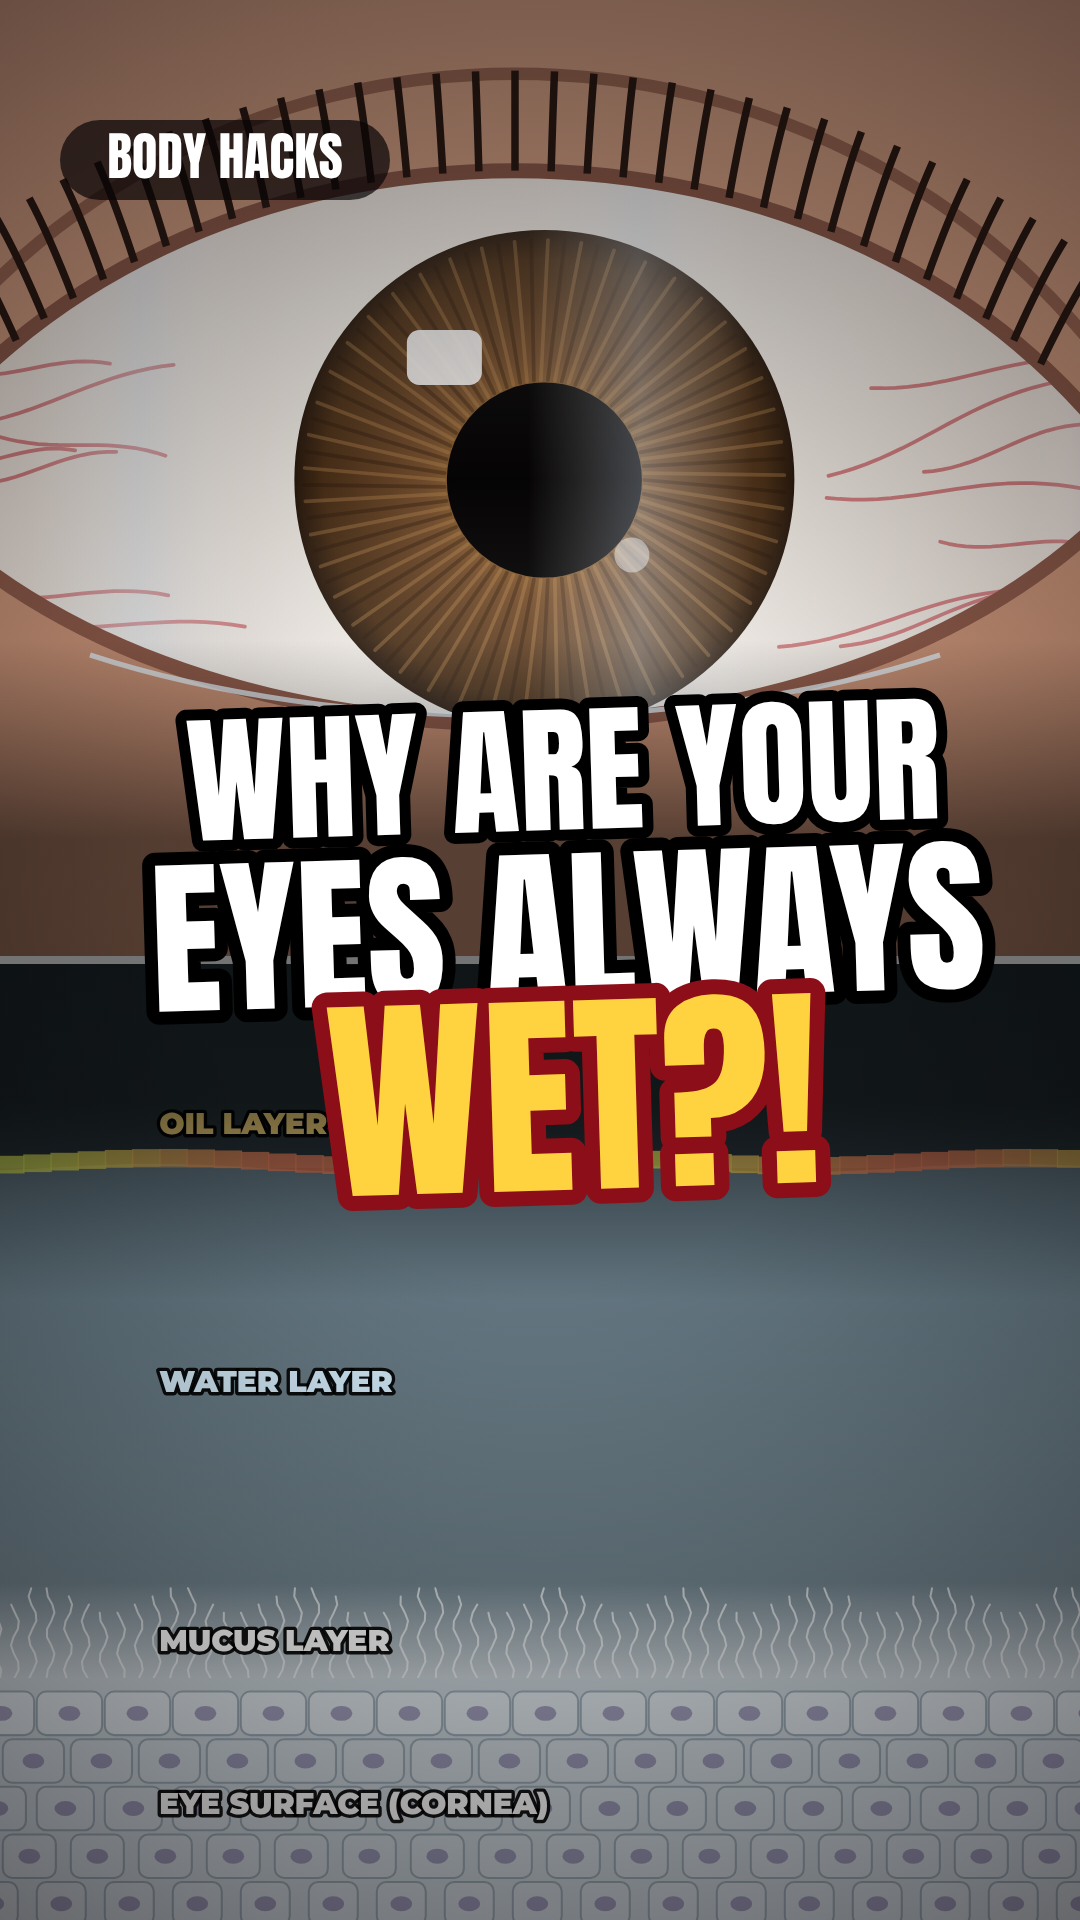
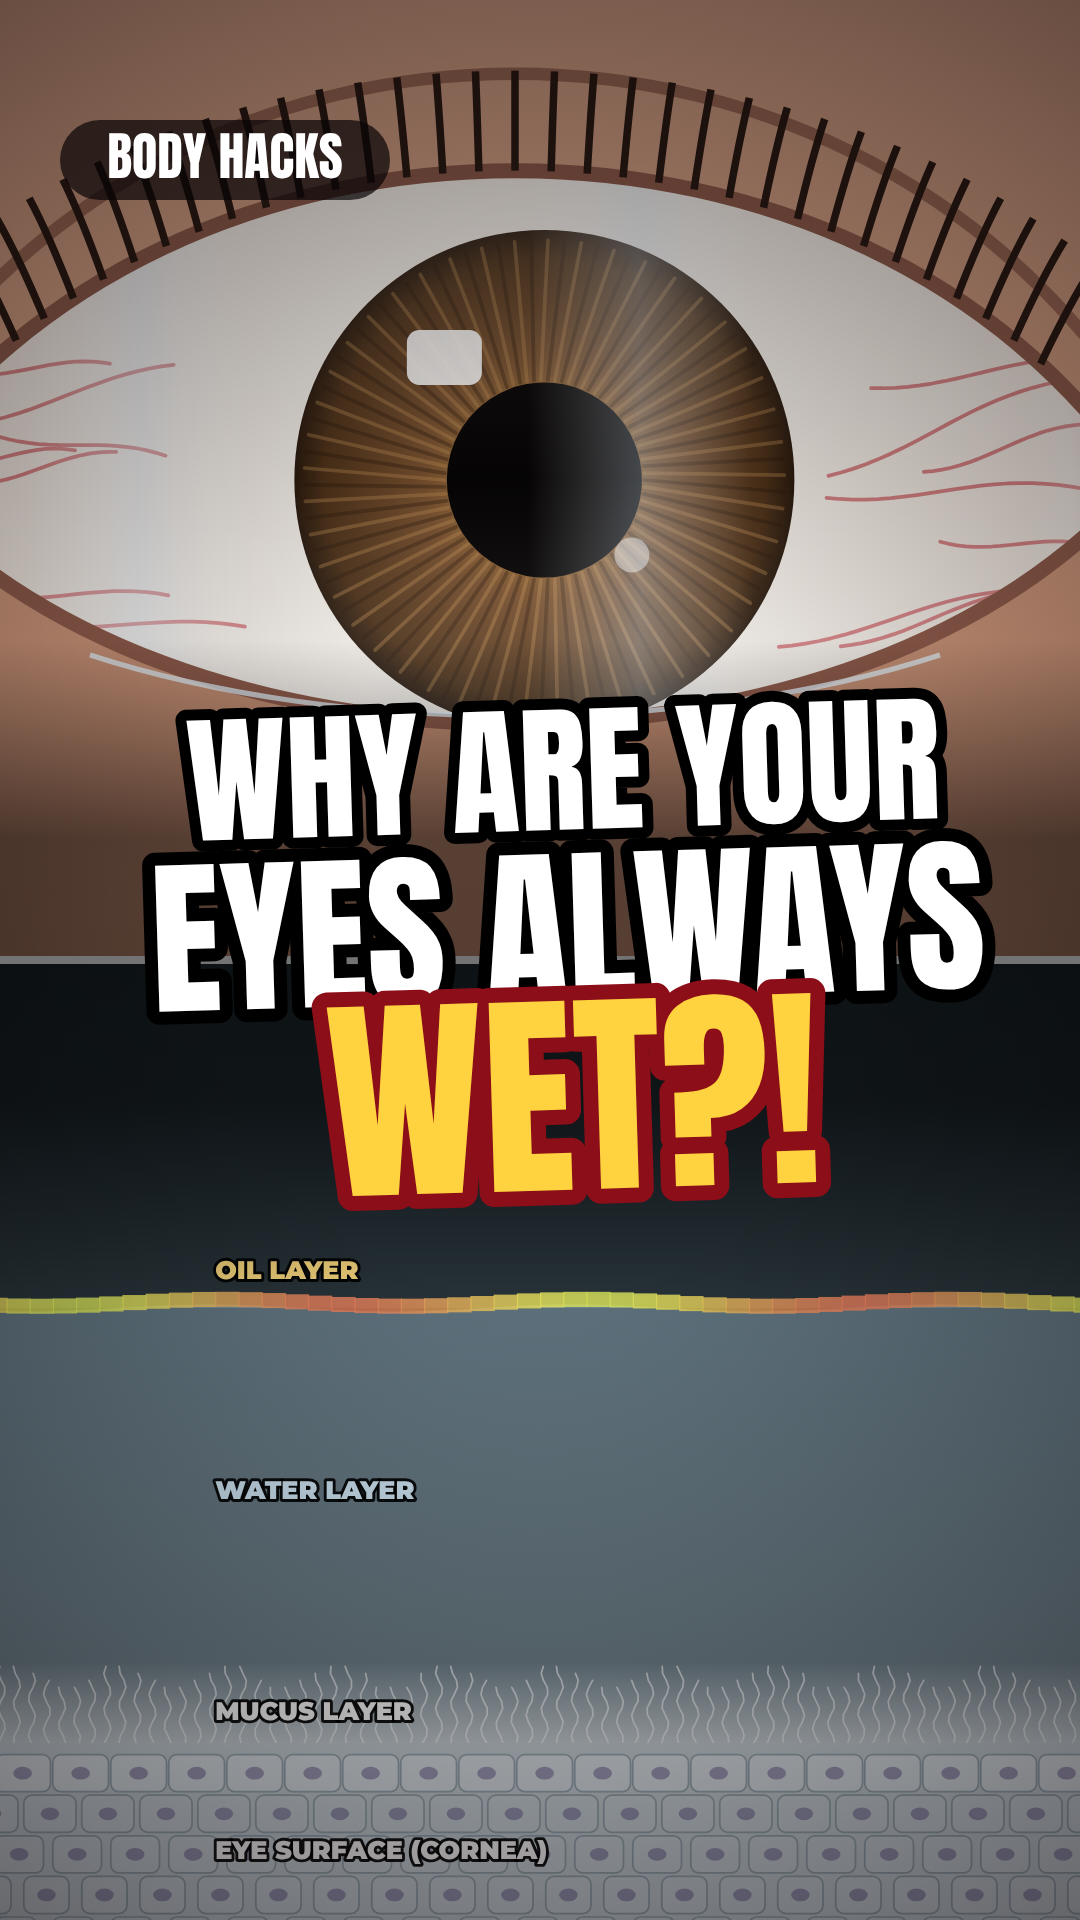
tear-film kapak: katman etiketleri başlıkla çakışmayacak şekilde düzenlendi
Claude-Session: https://claude.ai/code/session_017usCBy5nLSFbYZyHCvYWSo

Changed region(s): [[0.0, 0.8125, 1.0, 1.0], [0.0, 0.5625, 1.0, 0.7812]]

diff --git a/videos/tear-film/cover/cover.html b/videos/tear-film/cover/cover.html
@@ -9,11 +9,11 @@ window.cover = function (Wd, Hd) {
   // render two scenes on the main 1080x1920 canvas, copy to offscreen
   const snap = (segIdx, t, z, x, y) => { const sg = SEG[segIdx]; ctx.setTransform(1,0,0,1,0,0); ctx.globalAlpha = 1; ctx.fillStyle = '#000'; ctx.fillRect(0, 0, 1080, 1920); ctx.save(); ctx.translate(540, 960); ctx.scale(z, z); ctx.translate(-x, -y); sg.fn(1, t, sg.o); ctx.restore(); const c2 = document.createElement('canvas'); c2.width = 1080; c2.height = 1920; c2.getContext('2d').drawImage(cv, 0, 0); return c2; };
   cv.width = 1080; cv.height = 1920;
-  const skin = snap(1, 1.5, 1.25, 560, 960), micro = snap(3, 2.0, .68, 640, 900);
+  const skin = snap(1, 1.5, 1.25, 560, 960), micro = snap(3, 2.0, .58, 640, 900), micro2 = snap(5, 2.0, .68, 640, 900);
   cv.width = Wd; cv.height = Hd; const c = cv.getContext('2d');
   const vertical = Hd > Wd;
-  if (vertical) { c.drawImage(skin, 0, 480, 1080, 960, 0, 0, 1080, 960); c.drawImage(micro, 0, 480, 1080, 960, 0, 960, 1080, 960); }
-  else { c.drawImage(skin, 60, 420, 960, 1080, 0, 0, 640, 720); c.drawImage(micro, 60, 420, 960, 1080, 640, 0, 640, 720); }
+  if (vertical) { c.drawImage(skin, 0, 480, 1080, 960, 0, 0, 1080, 960); c.drawImage(micro, 0, 380, 1080, 960, 0, 960, 1080, 960); }
+  else { c.drawImage(skin, 60, 420, 960, 1080, 0, 0, 640, 720); c.drawImage(micro2, 60, 420, 960, 1080, 640, 0, 640, 720); }
   // magnifier ring between halves
   const mx = vertical ? 540 : 540, my = vertical ? 960 : 360, mr = vertical ? 0 : 0;
   // grade
